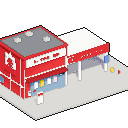
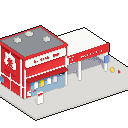
giant-shop：赤の階調の おきかえを らいすぴあ専用の材質（riceR・riceRD）だけに
近藤米穀店などが使う akaR は ふつうの階調のまま（kondo.png を作りなおしても かわらない：0点ちがい）。
Codex review（PR #161）の指摘より

Claude-Session: https://claude.ai/code/session_01ELr6p8vy9BCj5YSPo2dWgF

diff --git a/tools/blender/giant-shop.py b/tools/blender/giant-shop.py
@@ -23,7 +23,7 @@ pa.MATS.update({
     'labelR': '#e8384a', 'labelB': '#2f5fc8', 'labelG': '#3a9a4a', 'labelO': '#f0902a', 'kamibukuro': '#d2ab72', 'himo': '#8a6a4a',
     'teal': '#2f7f86', 'beige': '#d8c6ae', 'beigeD': '#b8a68e', 'aoJi': '#2a3f9a', 'kiiro': '#f2c200', 'line': '#e8b020',
     'nedan': '#fbfbf6', 'nedanM': '#222222', 'momo': '#f4c8d4', 'kabe': '#cdd5cd', 'tenjo': '#4a5a52', 'dai': '#e8dcc0', 'daiK': '#2a2a2a',
-    'pinkF': '#e8a0b4', 'paret': '#b8915a', 'cream': '#f1e08e', 'creamD': '#d8c46c', 'roadG': '#6a6a6a', 'gTreeD': '#3f7f34',
+    'pinkF': '#e8a0b4', 'paret': '#b8915a', 'cream': '#f1e08e', 'creamD': '#d8c46c', 'roadG': '#6a6a6a', 'gTreeD': '#3f7f34', 'riceR': '#d8262f', 'riceRD': '#a91c23',
 })
 
 
@@ -52,9 +52,10 @@ def moji(name, mat, text, size, loc, face='-y', bold=0.0):
 
 import bpy  # noqa: E402  （pixel-art.py が先に読み込んでいる）
 
-# らいすぴあの 赤：ふつうの 明るい色（白に近づける）だと 光の当たる面が ピンクに見えるので、明るい面も こい赤のまま（写真の 赤い店に合わせる）
+# らいすぴあの 赤：ふつうの 明るい色（白に近づける）だと 光の当たる面が ピンクに見えるので、明るい面も こい赤のまま（写真の 赤い店に合わせる）。
+# らいすぴあ専用の材質（riceR・riceRD）の色だけ おきかえる（近藤米穀店などが使う akaR は ふつうのまま）
 _tones = pa.tones
-SHOP_TONES = {'#d7262e': [(150, 16, 26), (215, 38, 46), (236, 58, 60)], '#a81c22': [(110, 12, 18), (168, 28, 34), (196, 40, 44)]}
+SHOP_TONES = {'#d8262f': [(150, 16, 26), (215, 38, 46), (236, 58, 60)], '#a91c23': [(110, 12, 18), (168, 28, 34), (196, 40, 44)]}
 pa.tones = lambda h: SHOP_TONES.get(h) or _tones(h)
 
 
@@ -67,8 +68,8 @@ def ricepia():
     for i in range(3):   # 駐車場の白線
         box(f'sen{i}', 'kanbanW', (0.012, 0.22, 0.004), (0.30 + i * 0.13, -0.30, 0.004))
     W, D, H, X0 = 0.46, 0.40, 0.40, -0.25   # 店の はば・おくゆき・高さ・まん中
-    box('mise', 'akaR', (W, D, H), (X0, 0.10, H / 2))
-    box('yaneF', 'akaR', (W + 0.02, D + 0.02, 0.012), (X0, 0.10, H + 0.006))   # 屋根の 赤いふち
+    box('mise', 'riceR', (W, D, H), (X0, 0.10, H / 2))
+    box('yaneF', 'riceR', (W + 0.02, D + 0.02, 0.012), (X0, 0.10, H + 0.006))   # 屋根の 赤いふち
     box('yane', 'yaneB', (W - 0.03, D - 0.03, 0.016), (X0, 0.10, H + 0.010))   # 屋根（灰色。白いと 赤が うすく見える）
     for i, (x, y) in enumerate(((X0 - 0.10, 0.18), (X0 + 0.05, 0.22), (X0 + 0.12, 0.05))):   # 屋根の上の 室外機
         box(f'shitsugai{i}', 'concrete', (0.05, 0.04, 0.03), (x, y, H + 0.03))
@@ -78,15 +79,15 @@ def ricepia():
         box(f'lsenT{y}', 'kanbanW', (0.006, 0.011, H - 0.02), (lx, y, H / 2))
     box('lsenY', 'kanbanW', (0.006, D, 0.014), (lx, 0.10, 0.12))
     cyl('donburi', 'kanbanW', 0.085, 0.006, (lx - 0.002, 0.10, 0.27), (0, math.pi / 2, 0), 32)   # 白い まるの上に どんぶり
-    box('donburiF', 'akaR', (0.006, 0.17, 0.05), (lx - 0.004, 0.10, 0.215))   # どんぶりの ふち（下の半分を赤く くぎる）
+    box('donburiF', 'riceR', (0.006, 0.17, 0.05), (lx - 0.004, 0.10, 0.215))   # どんぶりの ふち（下の半分を赤く くぎる）
     for i, y in enumerate((0.05, 0.10, 0.15)):   # どんぶりに もった ごはんの 山
         sphere(f'gohan{i}', 'kanbanW', 0.03, (lx - 0.004, y, 0.34 + (0.01 if i == 1 else 0)), (0.2, 1, 0.8))
     box('lMado', 'glassB', (0.006, 0.08, 0.05), (lx, 0.24, 0.06))   # 左の壁の 小さな窓
-    moji('komeL', 'akaR', '米', 0.11, (lx - 0.006, 0.10, 0.285), face='-x', bold=0.003)
+    moji('komeL', 'riceR', '米', 0.11, (lx - 0.006, 0.10, 0.285), face='-x', bold=0.003)
     # 正面（-y）：上に 白い看板、すじの もよう、1階は ガラスの売り場
     fy = 0.10 - D / 2 - 0.002
     box('kanban', 'kanbanW', (W - 0.04, 0.012, 0.075), (X0, fy - 0.004, H - 0.05))
-    moji('kanbanJ', 'akaR', 'らいすぴあ・秀幸', 0.042, (X0, fy - 0.011, H - 0.05), bold=0.001)
+    moji('kanbanJ', 'riceR', 'らいすぴあ・秀幸', 0.042, (X0, fy - 0.011, H - 0.05), bold=0.001)
     for x in (X0 - W / 2 + 0.01, X0 + W / 2 - 0.01):
         box(f'fsenT{x}', 'kanbanW', (0.011, 0.006, H - 0.10), (x, fy, (H - 0.10) / 2))
     box('fsenY', 'kanbanW', (W, 0.006, 0.013), (X0, fy, 0.21))
@@ -96,36 +97,36 @@ def ricepia():
     box('iriguchi', 'sumi', (0.07, 0.006, 0.15), (X0 + W / 2 - 0.06, fy - 0.004, 0.075))   # 入口（自動ドア：2まいの ガラスと わく）
     for dx in (-0.017, 0.017):
         box(f'jido{dx}', 'glassB', (0.03, 0.008, 0.13), (X0 + W / 2 - 0.06 + dx, fy - 0.006, 0.07))
-    box('matto', 'akaRD', (0.08, 0.04, 0.004), (X0 + W / 2 - 0.06, fy - 0.03, 0.004))   # 入口の 赤い マット
-    for i, (x, m) in enumerate(((-0.42, 'labelB'), (-0.37, 'akaR'))):   # 左下の 白い板の 小さな はり紙
+    box('matto', 'riceRD', (0.08, 0.04, 0.004), (X0 + W / 2 - 0.06, fy - 0.03, 0.004))   # 入口の 赤い マット
+    for i, (x, m) in enumerate(((-0.42, 'labelB'), (-0.37, 'riceR'))):   # 左下の 白い板の 小さな はり紙
         box(f'hari{i}', 'kanbanW', (0.04, 0.006, 0.05), (x, fy - 0.002, 0.05))
         box(f'hariM{i}', m, (0.03, 0.007, 0.012), (x, fy - 0.003, 0.06))
-    box('hisashi', 'akaRD', (W - 0.04, 0.05, 0.012), (X0, fy - 0.025, 0.185))   # 入口の上の 赤いひさし
+    box('hisashi', 'riceRD', (W - 0.04, 0.05, 0.012), (X0, fy - 0.025, 0.185))   # 入口の上の 赤いひさし
     # 米のドライブスルー：店の右に 白い屋根、前の板に 赤い帯（白い字）、左はしに IN の矢印と 車のマーク
     rx0, rx1, ry = X0 + W / 2, 0.42, 0.08
     box('dtYane', 'kanbanW', (rx1 - rx0, 0.36, 0.025), ((rx0 + rx1) / 2, ry, 0.27))
     box('dtIta', 'kanbanW', (rx1 - rx0, 0.012, 0.075), ((rx0 + rx1) / 2, ry - 0.18, 0.245))
-    box('dtObi', 'akaR', (rx1 - rx0 - 0.09, 0.014, 0.066), ((rx0 + rx1) / 2 + 0.045, ry - 0.187, 0.245))   # 写真のように 板の ほとんどが 赤
+    box('dtObi', 'riceR', (rx1 - rx0 - 0.09, 0.014, 0.066), ((rx0 + rx1) / 2 + 0.045, ry - 0.187, 0.245))   # 写真のように 板の ほとんどが 赤
     moji('dtJi', 'kanbanW', '米のドライブスルー', 0.036, ((rx0 + rx1) / 2 + 0.05, ry - 0.195, 0.245))
-    box('dtIN', 'akaR', (0.07, 0.014, 0.05), (rx0 + 0.05, ry - 0.187, 0.245))
+    box('dtIN', 'riceR', (0.07, 0.014, 0.05), (rx0 + 0.05, ry - 0.187, 0.245))
     moji('dtINj', 'kanbanW', 'IN', 0.034, (rx0 + 0.045, ry - 0.195, 0.245))
     for x in (rx0 + 0.15, rx1 - 0.01):
         for y in (ry - 0.16, ry + 0.16):
             box(f'dtHashira{x}{y}', 'kanbanW', (0.022, 0.022, 0.26), (x, y, 0.13))
     box('dtMado', 'glassB', (0.006, 0.20, 0.10), (rx0 + 0.002, ry + 0.02, 0.10))   # ドライブスルーの 受けわたしの窓
     box('aoKanban', 'labelB', (0.05, 0.008, 0.07), (rx1 - 0.01, ry - 0.175, 0.13))   # 柱の 青い看板
-    box('dtFuchi', 'akaR', (rx1 - rx0, 0.014, 0.008), ((rx0 + rx1) / 2, ry - 0.187, 0.286))   # 屋根の前の 赤い ふち
+    box('dtFuchi', 'riceR', (rx1 - rx0, 0.014, 0.008), ((rx0 + rx1) / 2, ry - 0.187, 0.286))   # 屋根の前の 赤い ふち
     for i in range(3):   # 屋根の下の 明かり
         box(f'akari{i}', 'kiiro', (0.03, 0.03, 0.006), (rx0 + 0.10 + i * 0.09, ry, 0.255))
     for i in range(2):   # 地面の 白い矢印（ドライブスルーの 進む向き）
         x = rx0 + 0.08 + i * 0.12
         box(f'yaB{i}', 'kanbanW', (0.05, 0.012, 0.003), (x, ry - 0.02, 0.012))
         box(f'yaH{i}', 'kanbanW', (0.012, 0.04, 0.003), (x + 0.025, ry - 0.02, 0.012), (0, 0, math.radians(45)))
-    cyl('cone', 'akaR', 0.014, 0.04, (rx1 + 0.06, ry - 0.26, 0.022), verts=10, r2=0.002)   # 赤い コーン
+    cyl('cone', 'riceR', 0.014, 0.04, (rx1 + 0.06, ry - 0.26, 0.022), verts=10, r2=0.002)   # 赤い コーン
     box('kurumadome', 'kiiro', (0.03, 0.03, 0.04), (rx1 + 0.03, ry - 0.20, 0.02))
     # 左前の 白い立て看板
     box('tate', 'kanbanW', (0.06, 0.012, 0.11), (X0 - W / 2 + 0.06, -0.26, 0.075))
-    box('tateA', 'akaR', (0.05, 0.014, 0.02), (X0 - W / 2 + 0.06, -0.26, 0.11))
+    box('tateA', 'riceR', (0.05, 0.014, 0.02), (X0 - W / 2 + 0.06, -0.26, 0.11))
     return dict(target=(0.02, 0.0, 0.16), scale=1.12, el=28, size=128, vote=True, bands=5, inner=0.86)
 
 
